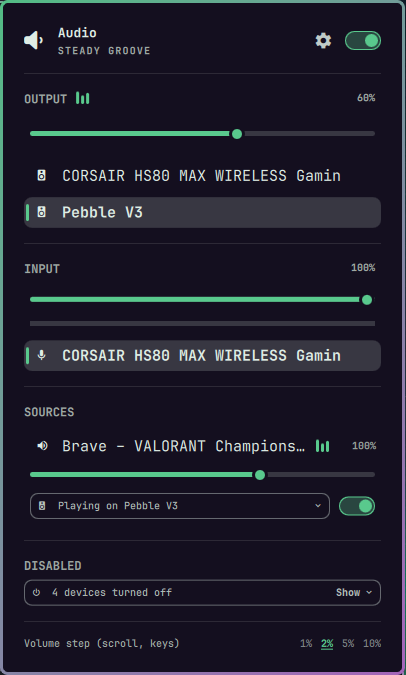
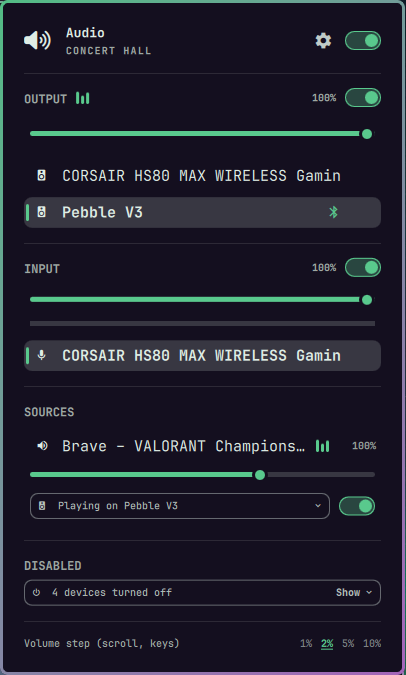
Retake the screenshots and preview for the mute switches and Bluetooth mark

diff --git a/assets/preview.html b/assets/preview.html
@@ -28,7 +28,7 @@ li span{color:#9dbcb1}
  <ul>
   <li>Disable outputs &amp; inputs</li>
   <li>Route &amp; pin apps <span>to any output</span></li>
-  <li>Mute per app <span>with one switch</span></li>
+  <li>Mute output, input <span>or any app</span></li>
   <li>Live playing bars <span>in your accent</span></li>
   <li>Browser tab titles <span>in the mixer</span></li>
   <li>Density, font size <span>&amp; volume step</span></li>

diff --git a/README.md b/README.md
@@ -3,7 +3,7 @@
 Omarchy's audio panel, with the controls it was missing.
 
 <p>
-  <img src="assets/omaudiopanel.png" alt="The omaudiopanel audio panel: playing bars next to OUTPUT, the device in use marked in the accent colour, Brave in the mixer with its output field and mute switch, the folded Disabled section and the volume step" width="360">
+  <img src="assets/omaudiopanel.png" alt="The omaudiopanel audio panel: playing bars and a mute switch on OUTPUT and INPUT, a Bluetooth speaker marked as such, Brave in the mixer with its output field and mute switch, the folded Disabled section and the volume step" width="360">
   <img src="assets/omaudioroute.png" alt="The same panel with Brave's output picker open, the option to always play it on one output, and the power icon for disabling an output" width="360">
 </p>
 
@@ -14,10 +14,13 @@ pickers, the per-app mixer, keyboard navigation — and it adds:
 - **Disable devices.** Hover an output or input and click the power icon (or
   press `d`). Disabled devices collect in a **Disabled** section at the bottom,
   folded into one line ("4 devices turned off"). Click **Show** to list them,
-  then click one to turn it back on. Nothing else is interrupted.
+  then click one to turn it back on. Nothing else is interrupted. Bluetooth
+  devices carry a Bluetooth mark and can be disabled too.
 
   <img src="assets/omaudiodisable.png" alt="Hovering an output shows a power icon with the tooltip Disable device (d)" width="300">
 
+- **Mute one side.** OUTPUT and INPUT each have their own switch; the one in
+  the header still mutes both.
 - **Choose where each app plays.** Under every app in the mixer, a
   "Playing on CORSAIR HS80" field shows its output. Click it to pick another
   (or press `r` to step through outputs). The switch beside it mutes the app.
@@ -40,7 +43,7 @@ pickers, the per-app mixer, keyboard navigation — and it adds:
   playing bars, the output and input mute switches, the output field under each app, the Disabled section or the
   volume step footer.
 
-  <img src="assets/omaudiosettings.png" alt="The settings view: density, font size, switches for each section and the volume step" width="300">
+  <img src="assets/omaudiosettings.png" alt="The settings view: density, font size, switches for each part of the panel and the volume step" width="300">
 
 Changing the default output also leaves apps you routed or pinned where they
 are, instead of moving every stream to the new default.
